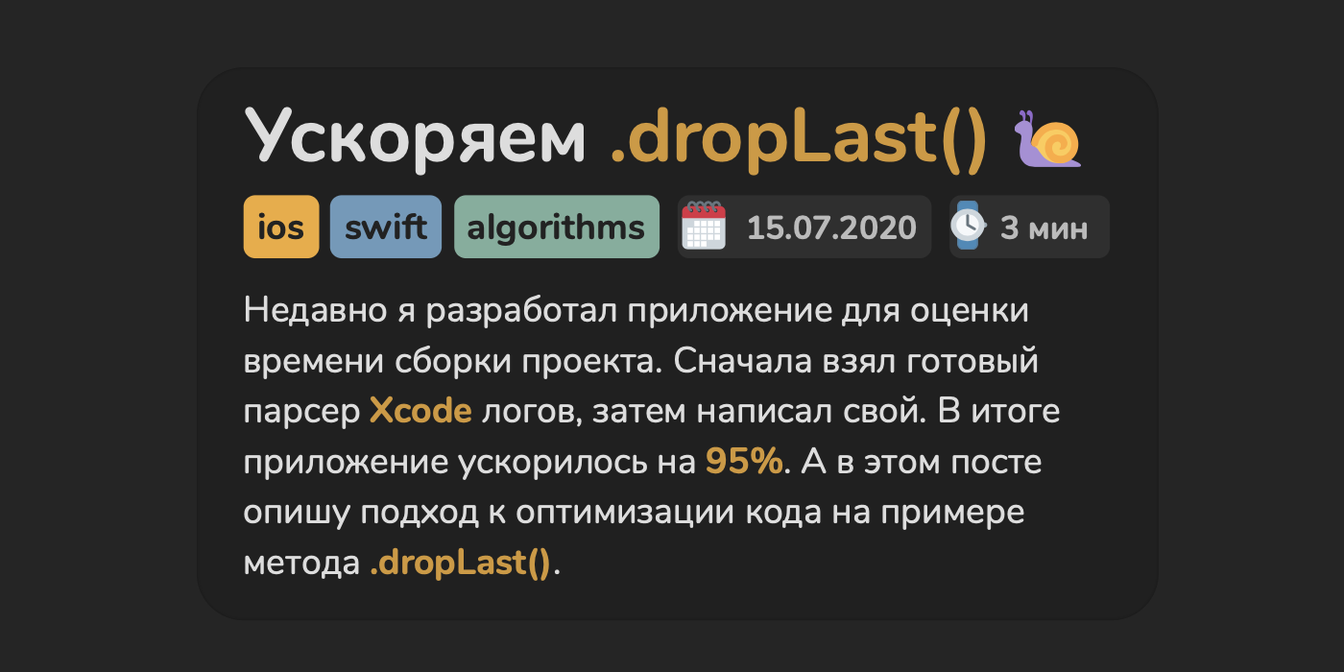
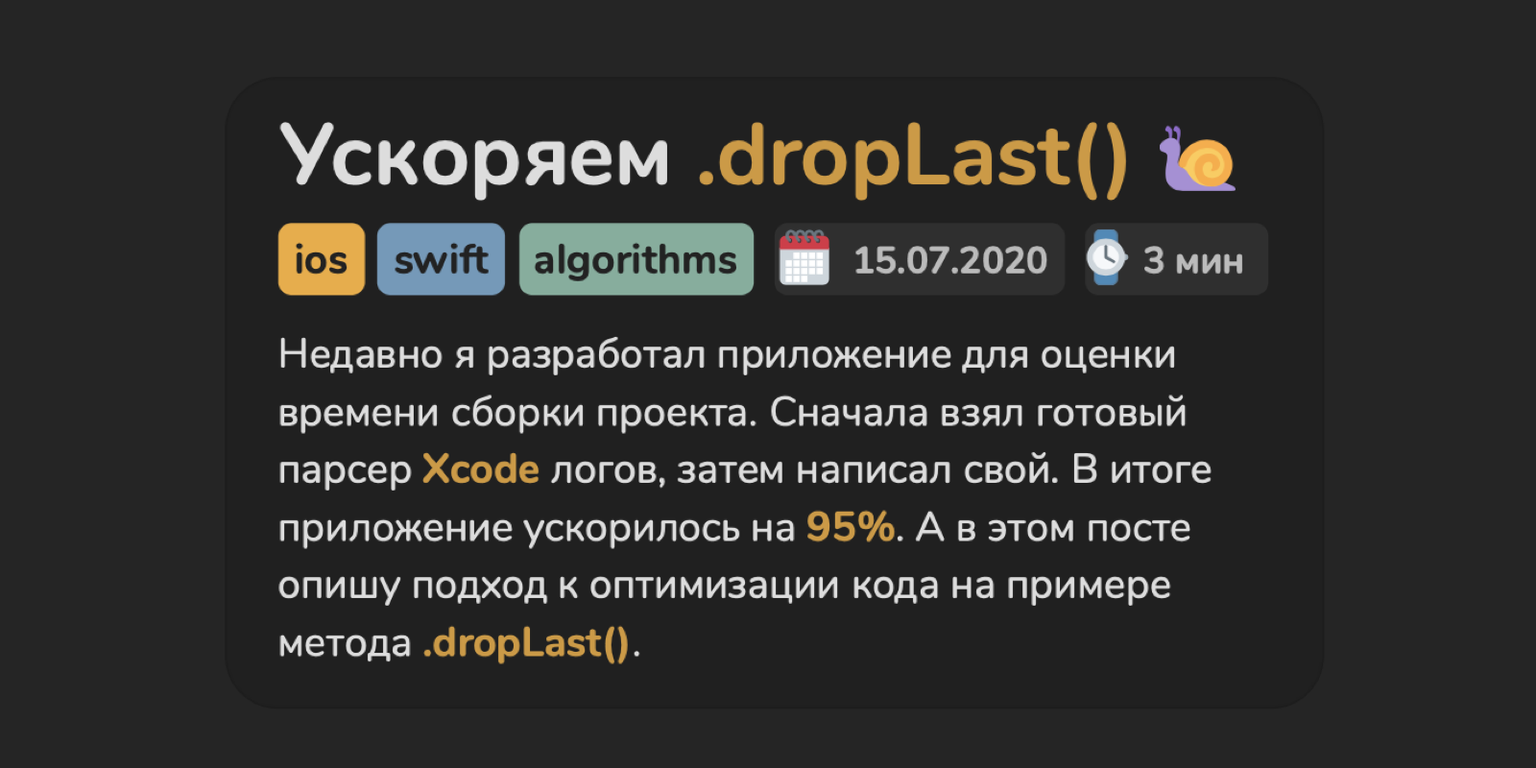
Deploy.

diff --git a/ru/2018-06-24-algorithms_complexity/index.html b/ru/2018-06-24-algorithms_complexity/index.html
@@ -1,8 +1,4 @@
-<!DOCTYPE html><html lang="ru"><head><!--Global site tag (gtag.js) - Google Analytics--><script async src="https://www.googletagmanager.com/gtag/js?id=UA-169314670-1"></script><script>window.dataLayer = window.dataLayer || [];
-function gtag(){dataLayer.push(arguments);}
-gtag('js', new Date());
-
-gtag('config', 'UA-169314670-1');</script><!--/Google Analytics--><meta charset="UTF-8"/><meta name="og:site_name" content="Swifty Finch"/><link rel="canonical" href="https://swiftyfinch.github.io/ru/2018-06-24-algorithms_complexity"/><meta name="twitter:url" content="https://swiftyfinch.github.io/ru/2018-06-24-algorithms_complexity"/><meta name="og:url" content="https://swiftyfinch.github.io/ru/2018-06-24-algorithms_complexity"/><title>Оценка алгоритмов для самых маленьких | Swifty Finch</title><meta name="twitter:title" content="Оценка алгоритмов для самых маленьких | Swifty Finch"/><meta name="og:title" content="Оценка алгоритмов для самых маленьких | Swifty Finch"/><meta name="description" content="Мой испытательный срок на новой работе подходит к концу, быстро время пролетело. У нас в компании принято рассказывать небольшой доклад по такому случаю. А так как я совсем недавно закончил курс Алгоритмы и структуры данных в ШАД, я решил почему бы не сделать доклад именно на эту тему. И конечно, почему бы не написать об этом!"/><meta name="twitter:description" content="Мой испытательный срок на новой работе подходит к концу, быстро время пролетело. У нас в компании принято рассказывать небольшой доклад по такому случаю. А так как я совсем недавно закончил курс Алгоритмы и структуры данных в ШАД, я решил почему бы не сделать доклад именно на эту тему. И конечно, почему бы не написать об этом!"/><meta name="og:description" content="Мой испытательный срок на новой работе подходит к концу, быстро время пролетело. У нас в компании принято рассказывать небольшой доклад по такому случаю. А так как я совсем недавно закончил курс Алгоритмы и структуры данных в ШАД, я решил почему бы не сделать доклад именно на эту тему. И конечно, почему бы не написать об этом!"/><!--Yandex.Metrika counter--><script type="text/javascript">(function(m,e,t,r,i,k,a){m[i]=m[i]||function(){(m[i].a=m[i].a||[]).push(arguments)};
+<!DOCTYPE html><html lang="ru"><head><meta charset="UTF-8"/><meta name="og:site_name" content="Swifty Finch"/><link rel="canonical" href="https://swiftyfinch.github.io/ru/2018-06-24-algorithms_complexity"/><meta name="twitter:url" content="https://swiftyfinch.github.io/ru/2018-06-24-algorithms_complexity"/><meta name="og:url" content="https://swiftyfinch.github.io/ru/2018-06-24-algorithms_complexity"/><title>Оценка алгоритмов для самых маленьких | Swifty Finch</title><meta name="twitter:title" content="Оценка алгоритмов для самых маленьких | Swifty Finch"/><meta name="og:title" content="Оценка алгоритмов для самых маленьких | Swifty Finch"/><meta name="description" content="Мой испытательный срок на новой работе подходит к концу, быстро время пролетело. У нас в компании принято рассказывать небольшой доклад по такому случаю. А так как я совсем недавно закончил курс Алгоритмы и структуры данных в ШАД, я решил почему бы не сделать доклад именно на эту тему. И конечно, почему бы не написать об этом!"/><meta name="twitter:description" content="Мой испытательный срок на новой работе подходит к концу, быстро время пролетело. У нас в компании принято рассказывать небольшой доклад по такому случаю. А так как я совсем недавно закончил курс Алгоритмы и структуры данных в ШАД, я решил почему бы не сделать доклад именно на эту тему. И конечно, почему бы не написать об этом!"/><meta name="og:description" content="Мой испытательный срок на новой работе подходит к концу, быстро время пролетело. У нас в компании принято рассказывать небольшой доклад по такому случаю. А так как я совсем недавно закончил курс Алгоритмы и структуры данных в ШАД, я решил почему бы не сделать доклад именно на эту тему. И конечно, почему бы не написать об этом!"/><!--Yandex.Metrika counter--><script type="text/javascript">(function(m,e,t,r,i,k,a){m[i]=m[i]||function(){(m[i].a=m[i].a||[]).push(arguments)};
 m[i].l=1*new Date();k=e.createElement(t),a=e.getElementsByTagName(t)[0],k.async=1,k.src=r,a.parentNode.insertBefore(k,a)})
 (window, document, "script", "https://mc.yandex.ru/metrika/tag.js", "ym");
 

diff --git a/ru/2020-06-06-cozy-pod-install-3/index.html b/ru/2020-06-06-cozy-pod-install-3/index.html
@@ -1,8 +1,4 @@
-<!DOCTYPE html><html lang="ru"><head><!--Global site tag (gtag.js) - Google Analytics--><script async src="https://www.googletagmanager.com/gtag/js?id=UA-169314670-1"></script><script>window.dataLayer = window.dataLayer || [];
-function gtag(){dataLayer.push(arguments);}
-gtag('js', new Date());
-
-gtag('config', 'UA-169314670-1');</script><!--/Google Analytics--><meta charset="UTF-8"/><meta name="og:site_name" content="Swifty Finch"/><link rel="canonical" href="https://swiftyfinch.github.io/ru/2020-06-06-cozy-pod-install-3"/><meta name="twitter:url" content="https://swiftyfinch.github.io/ru/2020-06-06-cozy-pod-install-3"/><meta name="og:url" content="https://swiftyfinch.github.io/ru/2020-06-06-cozy-pod-install-3"/><title>(ч.3) Удобный pod install 🌿 | Swifty Finch</title><meta name="twitter:title" content="(ч.3) Удобный pod install 🌿 | Swifty Finch"/><meta name="og:title" content="(ч.3) Удобный pod install 🌿 | Swifty Finch"/><meta name="description" content="В прошлой части мы написали небольшую обертку над обычным CocoaPods и научились не вызывать его без необходимости. 🤷🏻 И даже при необходимости. В этой части давайте попробуем автоматизировать пару интересных моментов. Основная цель запустить команду pods install и спокойно переключиться на другие задачи до её завершения.</p>"/><meta name="twitter:description" content="В прошлой части мы написали небольшую обертку над обычным CocoaPods и научились не вызывать его без необходимости. 🤷🏻 И даже при необходимости. В этой части давайте попробуем автоматизировать пару интересных моментов. Основная цель запустить команду pods install и спокойно переключиться на другие задачи до её завершения.</p>"/><meta name="og:description" content="В прошлой части мы написали небольшую обертку над обычным CocoaPods и научились не вызывать его без необходимости. 🤷🏻 И даже при необходимости. В этой части давайте попробуем автоматизировать пару интересных моментов. Основная цель запустить команду pods install и спокойно переключиться на другие задачи до её завершения.</p>"/><!--Yandex.Metrika counter--><script type="text/javascript">(function(m,e,t,r,i,k,a){m[i]=m[i]||function(){(m[i].a=m[i].a||[]).push(arguments)};
+<!DOCTYPE html><html lang="ru"><head><meta charset="UTF-8"/><meta name="og:site_name" content="Swifty Finch"/><link rel="canonical" href="https://swiftyfinch.github.io/ru/2020-06-06-cozy-pod-install-3"/><meta name="twitter:url" content="https://swiftyfinch.github.io/ru/2020-06-06-cozy-pod-install-3"/><meta name="og:url" content="https://swiftyfinch.github.io/ru/2020-06-06-cozy-pod-install-3"/><title>(ч.3) Удобный pod install 🌿 | Swifty Finch</title><meta name="twitter:title" content="(ч.3) Удобный pod install 🌿 | Swifty Finch"/><meta name="og:title" content="(ч.3) Удобный pod install 🌿 | Swifty Finch"/><meta name="description" content="В прошлой части мы написали небольшую обертку над обычным CocoaPods и научились не вызывать его без необходимости. 🤷🏻 И даже при необходимости. В этой части давайте попробуем автоматизировать пару интересных моментов. Основная цель запустить команду pods install и спокойно переключиться на другие задачи до её завершения.</p>"/><meta name="twitter:description" content="В прошлой части мы написали небольшую обертку над обычным CocoaPods и научились не вызывать его без необходимости. 🤷🏻 И даже при необходимости. В этой части давайте попробуем автоматизировать пару интересных моментов. Основная цель запустить команду pods install и спокойно переключиться на другие задачи до её завершения.</p>"/><meta name="og:description" content="В прошлой части мы написали небольшую обертку над обычным CocoaPods и научились не вызывать его без необходимости. 🤷🏻 И даже при необходимости. В этой части давайте попробуем автоматизировать пару интересных моментов. Основная цель запустить команду pods install и спокойно переключиться на другие задачи до её завершения.</p>"/><!--Yandex.Metrika counter--><script type="text/javascript">(function(m,e,t,r,i,k,a){m[i]=m[i]||function(){(m[i].a=m[i].a||[]).push(arguments)};
 m[i].l=1*new Date();k=e.createElement(t),a=e.getElementsByTagName(t)[0],k.async=1,k.src=r,a.parentNode.insertBefore(k,a)})
 (window, document, "script", "https://mc.yandex.ru/metrika/tag.js", "ym");
 

diff --git a/ru/2017-06-19-yandex-ios-school-p1/index.html b/ru/2017-06-19-yandex-ios-school-p1/index.html
@@ -1,8 +1,4 @@
-<!DOCTYPE html><html lang="ru"><head><!--Global site tag (gtag.js) - Google Analytics--><script async src="https://www.googletagmanager.com/gtag/js?id=UA-169314670-1"></script><script>window.dataLayer = window.dataLayer || [];
-function gtag(){dataLayer.push(arguments);}
-gtag('js', new Date());
-
-gtag('config', 'UA-169314670-1');</script><!--/Google Analytics--><meta charset="UTF-8"/><meta name="og:site_name" content="Swifty Finch"/><link rel="canonical" href="https://swiftyfinch.github.io/ru/2017-06-19-yandex-ios-school-p1"/><meta name="twitter:url" content="https://swiftyfinch.github.io/ru/2017-06-19-yandex-ios-school-p1"/><meta name="og:url" content="https://swiftyfinch.github.io/ru/2017-06-19-yandex-ios-school-p1"/><title>(ч.1) Яндекс Школа iOS | Swifty Finch</title><meta name="twitter:title" content="(ч.1) Яндекс Школа iOS | Swifty Finch"/><meta name="og:title" content="(ч.1) Яндекс Школа iOS | Swifty Finch"/><meta name="description" content="Это первая часть моей самой первой статьи. У меня в планах написать несколько статей, в которых я хочу поделиться своими впечатлениями о Школе мобильной разработки iOS. Я постараюсь описать все от начала и до самого конца. Также расскажу о своих выводах и планах."/><meta name="twitter:description" content="Это первая часть моей самой первой статьи. У меня в планах написать несколько статей, в которых я хочу поделиться своими впечатлениями о Школе мобильной разработки iOS. Я постараюсь описать все от начала и до самого конца. Также расскажу о своих выводах и планах."/><meta name="og:description" content="Это первая часть моей самой первой статьи. У меня в планах написать несколько статей, в которых я хочу поделиться своими впечатлениями о Школе мобильной разработки iOS. Я постараюсь описать все от начала и до самого конца. Также расскажу о своих выводах и планах."/><!--Yandex.Metrika counter--><script type="text/javascript">(function(m,e,t,r,i,k,a){m[i]=m[i]||function(){(m[i].a=m[i].a||[]).push(arguments)};
+<!DOCTYPE html><html lang="ru"><head><meta charset="UTF-8"/><meta name="og:site_name" content="Swifty Finch"/><link rel="canonical" href="https://swiftyfinch.github.io/ru/2017-06-19-yandex-ios-school-p1"/><meta name="twitter:url" content="https://swiftyfinch.github.io/ru/2017-06-19-yandex-ios-school-p1"/><meta name="og:url" content="https://swiftyfinch.github.io/ru/2017-06-19-yandex-ios-school-p1"/><title>(ч.1) Яндекс Школа iOS | Swifty Finch</title><meta name="twitter:title" content="(ч.1) Яндекс Школа iOS | Swifty Finch"/><meta name="og:title" content="(ч.1) Яндекс Школа iOS | Swifty Finch"/><meta name="description" content="Это первая часть моей самой первой статьи. У меня в планах написать несколько статей, в которых я хочу поделиться своими впечатлениями о Школе мобильной разработки iOS. Я постараюсь описать все от начала и до самого конца. Также расскажу о своих выводах и планах."/><meta name="twitter:description" content="Это первая часть моей самой первой статьи. У меня в планах написать несколько статей, в которых я хочу поделиться своими впечатлениями о Школе мобильной разработки iOS. Я постараюсь описать все от начала и до самого конца. Также расскажу о своих выводах и планах."/><meta name="og:description" content="Это первая часть моей самой первой статьи. У меня в планах написать несколько статей, в которых я хочу поделиться своими впечатлениями о Школе мобильной разработки iOS. Я постараюсь описать все от начала и до самого конца. Также расскажу о своих выводах и планах."/><!--Yandex.Metrika counter--><script type="text/javascript">(function(m,e,t,r,i,k,a){m[i]=m[i]||function(){(m[i].a=m[i].a||[]).push(arguments)};
 m[i].l=1*new Date();k=e.createElement(t),a=e.getElementsByTagName(t)[0],k.async=1,k.src=r,a.parentNode.insertBefore(k,a)})
 (window, document, "script", "https://mc.yandex.ru/metrika/tag.js", "ym");
 

diff --git a/ru/2020-05-19-json-encoding/index.html b/ru/2020-05-19-json-encoding/index.html
@@ -1,8 +1,4 @@
-<!DOCTYPE html><html lang="ru"><head><!--Global site tag (gtag.js) - Google Analytics--><script async src="https://www.googletagmanager.com/gtag/js?id=UA-169314670-1"></script><script>window.dataLayer = window.dataLayer || [];
-function gtag(){dataLayer.push(arguments);}
-gtag('js', new Date());
-
-gtag('config', 'UA-169314670-1');</script><!--/Google Analytics--><meta charset="UTF-8"/><meta name="og:site_name" content="Swifty Finch"/><link rel="canonical" href="https://swiftyfinch.github.io/ru/2020-05-19-json-encoding"/><meta name="twitter:url" content="https://swiftyfinch.github.io/ru/2020-05-19-json-encoding"/><meta name="og:url" content="https://swiftyfinch.github.io/ru/2020-05-19-json-encoding"/><title>Экранирование json объекта | Swifty Finch</title><meta name="twitter:title" content="Экранирование json объекта | Swifty Finch"/><meta name="og:title" content="Экранирование json объекта | Swifty Finch"/><meta name="description" content="Думаю многие работали с экранированием URL. А можете с ходу ответить экранируется ли json при отправке в body? В своей работе я столкнулся с тем, что по умолчанию json body запроса экранируется при использовании стандартного JSONEncoder. Чем это плохо спросите вы?"/><meta name="twitter:description" content="Думаю многие работали с экранированием URL. А можете с ходу ответить экранируется ли json при отправке в body? В своей работе я столкнулся с тем, что по умолчанию json body запроса экранируется при использовании стандартного JSONEncoder. Чем это плохо спросите вы?"/><meta name="og:description" content="Думаю многие работали с экранированием URL. А можете с ходу ответить экранируется ли json при отправке в body? В своей работе я столкнулся с тем, что по умолчанию json body запроса экранируется при использовании стандартного JSONEncoder. Чем это плохо спросите вы?"/><!--Yandex.Metrika counter--><script type="text/javascript">(function(m,e,t,r,i,k,a){m[i]=m[i]||function(){(m[i].a=m[i].a||[]).push(arguments)};
+<!DOCTYPE html><html lang="ru"><head><meta charset="UTF-8"/><meta name="og:site_name" content="Swifty Finch"/><link rel="canonical" href="https://swiftyfinch.github.io/ru/2020-05-19-json-encoding"/><meta name="twitter:url" content="https://swiftyfinch.github.io/ru/2020-05-19-json-encoding"/><meta name="og:url" content="https://swiftyfinch.github.io/ru/2020-05-19-json-encoding"/><title>Экранирование json объекта | Swifty Finch</title><meta name="twitter:title" content="Экранирование json объекта | Swifty Finch"/><meta name="og:title" content="Экранирование json объекта | Swifty Finch"/><meta name="description" content="Думаю многие работали с экранированием URL. А можете с ходу ответить экранируется ли json при отправке в body? В своей работе я столкнулся с тем, что по умолчанию json body запроса экранируется при использовании стандартного JSONEncoder. Чем это плохо спросите вы?"/><meta name="twitter:description" content="Думаю многие работали с экранированием URL. А можете с ходу ответить экранируется ли json при отправке в body? В своей работе я столкнулся с тем, что по умолчанию json body запроса экранируется при использовании стандартного JSONEncoder. Чем это плохо спросите вы?"/><meta name="og:description" content="Думаю многие работали с экранированием URL. А можете с ходу ответить экранируется ли json при отправке в body? В своей работе я столкнулся с тем, что по умолчанию json body запроса экранируется при использовании стандартного JSONEncoder. Чем это плохо спросите вы?"/><!--Yandex.Metrika counter--><script type="text/javascript">(function(m,e,t,r,i,k,a){m[i]=m[i]||function(){(m[i].a=m[i].a||[]).push(arguments)};
 m[i].l=1*new Date();k=e.createElement(t),a=e.getElementsByTagName(t)[0],k.async=1,k.src=r,a.parentNode.insertBefore(k,a)})
 (window, document, "script", "https://mc.yandex.ru/metrika/tag.js", "ym");
 

diff --git a/ru/2018-02-21-shad/index.html b/ru/2018-02-21-shad/index.html
@@ -1,8 +1,4 @@
-<!DOCTYPE html><html lang="ru"><head><!--Global site tag (gtag.js) - Google Analytics--><script async src="https://www.googletagmanager.com/gtag/js?id=UA-169314670-1"></script><script>window.dataLayer = window.dataLayer || [];
-function gtag(){dataLayer.push(arguments);}
-gtag('js', new Date());
-
-gtag('config', 'UA-169314670-1');</script><!--/Google Analytics--><meta charset="UTF-8"/><meta name="og:site_name" content="Swifty Finch"/><link rel="canonical" href="https://swiftyfinch.github.io/ru/2018-02-21-shad"/><meta name="twitter:url" content="https://swiftyfinch.github.io/ru/2018-02-21-shad"/><meta name="og:url" content="https://swiftyfinch.github.io/ru/2018-02-21-shad"/><title>ШАД, Алгоритмы и структуры данных | Swifty Finch</title><meta name="twitter:title" content="ШАД, Алгоритмы и структуры данных | Swifty Finch"/><meta name="og:title" content="ШАД, Алгоритмы и структуры данных | Swifty Finch"/><meta name="description" content="Статья является логическим продолжением моей последней публикации, в конце которой рассказывается о том как я получил интересную возможность стать вольнослушателем в Школе Анализа Данных в Екатеринбурге и изучать Алгоритмы и Структуры Данных."/><meta name="twitter:description" content="Статья является логическим продолжением моей последней публикации, в конце которой рассказывается о том как я получил интересную возможность стать вольнослушателем в Школе Анализа Данных в Екатеринбурге и изучать Алгоритмы и Структуры Данных."/><meta name="og:description" content="Статья является логическим продолжением моей последней публикации, в конце которой рассказывается о том как я получил интересную возможность стать вольнослушателем в Школе Анализа Данных в Екатеринбурге и изучать Алгоритмы и Структуры Данных."/><!--Yandex.Metrika counter--><script type="text/javascript">(function(m,e,t,r,i,k,a){m[i]=m[i]||function(){(m[i].a=m[i].a||[]).push(arguments)};
+<!DOCTYPE html><html lang="ru"><head><meta charset="UTF-8"/><meta name="og:site_name" content="Swifty Finch"/><link rel="canonical" href="https://swiftyfinch.github.io/ru/2018-02-21-shad"/><meta name="twitter:url" content="https://swiftyfinch.github.io/ru/2018-02-21-shad"/><meta name="og:url" content="https://swiftyfinch.github.io/ru/2018-02-21-shad"/><title>ШАД, Алгоритмы и структуры данных | Swifty Finch</title><meta name="twitter:title" content="ШАД, Алгоритмы и структуры данных | Swifty Finch"/><meta name="og:title" content="ШАД, Алгоритмы и структуры данных | Swifty Finch"/><meta name="description" content="Статья является логическим продолжением моей последней публикации, в конце которой рассказывается о том как я получил интересную возможность стать вольнослушателем в Школе Анализа Данных в Екатеринбурге и изучать Алгоритмы и Структуры Данных."/><meta name="twitter:description" content="Статья является логическим продолжением моей последней публикации, в конце которой рассказывается о том как я получил интересную возможность стать вольнослушателем в Школе Анализа Данных в Екатеринбурге и изучать Алгоритмы и Структуры Данных."/><meta name="og:description" content="Статья является логическим продолжением моей последней публикации, в конце которой рассказывается о том как я получил интересную возможность стать вольнослушателем в Школе Анализа Данных в Екатеринбурге и изучать Алгоритмы и Структуры Данных."/><!--Yandex.Metrika counter--><script type="text/javascript">(function(m,e,t,r,i,k,a){m[i]=m[i]||function(){(m[i].a=m[i].a||[]).push(arguments)};
 m[i].l=1*new Date();k=e.createElement(t),a=e.getElementsByTagName(t)[0],k.async=1,k.src=r,a.parentNode.insertBefore(k,a)})
 (window, document, "script", "https://mc.yandex.ru/metrika/tag.js", "ym");
 

diff --git a/ru/2020-07-18-drop-last/index.html b/ru/2020-07-18-drop-last/index.html
@@ -1,8 +1,4 @@
-<!DOCTYPE html><html lang="ru"><head><!--Global site tag (gtag.js) - Google Analytics--><script async src="https://www.googletagmanager.com/gtag/js?id=UA-169314670-1"></script><script>window.dataLayer = window.dataLayer || [];
-function gtag(){dataLayer.push(arguments);}
-gtag('js', new Date());
-
-gtag('config', 'UA-169314670-1');</script><!--/Google Analytics--><meta charset="UTF-8"/><meta name="og:site_name" content="Swifty Finch"/><link rel="canonical" href="https://swiftyfinch.github.io/ru/2020-07-18-drop-last"/><meta name="twitter:url" content="https://swiftyfinch.github.io/ru/2020-07-18-drop-last"/><meta name="og:url" content="https://swiftyfinch.github.io/ru/2020-07-18-drop-last"/><title>Ускоряем **.dropLast()** 🐌 | Swifty Finch</title><meta name="twitter:title" content="Ускоряем **.dropLast()** 🐌 | Swifty Finch"/><meta name="og:title" content="Ускоряем **.dropLast()** 🐌 | Swifty Finch"/><meta name="description" content="Недавно я разработал приложение для оценки времени сборки проекта. Сначала взял готовый парсер Xcode логов, затем написал свой. В итоге приложение ускорилось на 95%. А в этом посте опишу подход к оптимизации кода на примере метода .dropLast()."/><meta name="twitter:description" content="Недавно я разработал приложение для оценки времени сборки проекта. Сначала взял готовый парсер Xcode логов, затем написал свой. В итоге приложение ускорилось на 95%. А в этом посте опишу подход к оптимизации кода на примере метода .dropLast()."/><meta name="og:description" content="Недавно я разработал приложение для оценки времени сборки проекта. Сначала взял готовый парсер Xcode логов, затем написал свой. В итоге приложение ускорилось на 95%. А в этом посте опишу подход к оптимизации кода на примере метода .dropLast()."/><!--Yandex.Metrika counter--><script type="text/javascript">(function(m,e,t,r,i,k,a){m[i]=m[i]||function(){(m[i].a=m[i].a||[]).push(arguments)};
+<!DOCTYPE html><html lang="ru"><head><meta charset="UTF-8"/><meta name="og:site_name" content="Swifty Finch"/><link rel="canonical" href="https://swiftyfinch.github.io/ru/2020-07-18-drop-last"/><meta name="twitter:url" content="https://swiftyfinch.github.io/ru/2020-07-18-drop-last"/><meta name="og:url" content="https://swiftyfinch.github.io/ru/2020-07-18-drop-last"/><title>Ускоряем .dropLast() 🐌 | Swifty Finch</title><meta name="twitter:title" content="Ускоряем .dropLast() 🐌 | Swifty Finch"/><meta name="og:title" content="Ускоряем .dropLast() 🐌 | Swifty Finch"/><meta name="description" content="Недавно я разработал приложение для оценки времени сборки проекта. Сначала взял готовый парсер Xcode логов, затем написал свой. В итоге приложение ускорилось на 95%. А в этом посте опишу подход к оптимизации кода на примере метода .dropLast()."/><meta name="twitter:description" content="Недавно я разработал приложение для оценки времени сборки проекта. Сначала взял готовый парсер Xcode логов, затем написал свой. В итоге приложение ускорилось на 95%. А в этом посте опишу подход к оптимизации кода на примере метода .dropLast()."/><meta name="og:description" content="Недавно я разработал приложение для оценки времени сборки проекта. Сначала взял готовый парсер Xcode логов, затем написал свой. В итоге приложение ускорилось на 95%. А в этом посте опишу подход к оптимизации кода на примере метода .dropLast()."/><!--Yandex.Metrika counter--><script type="text/javascript">(function(m,e,t,r,i,k,a){m[i]=m[i]||function(){(m[i].a=m[i].a||[]).push(arguments)};
 m[i].l=1*new Date();k=e.createElement(t),a=e.getElementsByTagName(t)[0],k.async=1,k.src=r,a.parentNode.insertBefore(k,a)})
 (window, document, "script", "https://mc.yandex.ru/metrika/tag.js", "ym");
 

diff --git a/ru/2020-05-31-cozy-pod-install-2/index.html b/ru/2020-05-31-cozy-pod-install-2/index.html
@@ -1,8 +1,4 @@
-<!DOCTYPE html><html lang="ru"><head><!--Global site tag (gtag.js) - Google Analytics--><script async src="https://www.googletagmanager.com/gtag/js?id=UA-169314670-1"></script><script>window.dataLayer = window.dataLayer || [];
-function gtag(){dataLayer.push(arguments);}
-gtag('js', new Date());
-
-gtag('config', 'UA-169314670-1');</script><!--/Google Analytics--><meta charset="UTF-8"/><meta name="og:site_name" content="Swifty Finch"/><link rel="canonical" href="https://swiftyfinch.github.io/ru/2020-05-31-cozy-pod-install-2"/><meta name="twitter:url" content="https://swiftyfinch.github.io/ru/2020-05-31-cozy-pod-install-2"/><meta name="og:url" content="https://swiftyfinch.github.io/ru/2020-05-31-cozy-pod-install-2"/><title>(ч.2) Удобный pod install 🌿 | Swifty Finch</title><meta name="twitter:title" content="(ч.2) Удобный pod install 🌿 | Swifty Finch"/><meta name="og:title" content="(ч.2) Удобный pod install 🌿 | Swifty Finch"/><meta name="description" content="В прошлой части мы сократили команду bundle exec pod install до pods install. Всего на одну букву больше чем обычный pod install. А в этот раз давайте посмотрим какие ещё неприятные моменты бывают с использованием этой команды."/><meta name="twitter:description" content="В прошлой части мы сократили команду bundle exec pod install до pods install. Всего на одну букву больше чем обычный pod install. А в этот раз давайте посмотрим какие ещё неприятные моменты бывают с использованием этой команды."/><meta name="og:description" content="В прошлой части мы сократили команду bundle exec pod install до pods install. Всего на одну букву больше чем обычный pod install. А в этот раз давайте посмотрим какие ещё неприятные моменты бывают с использованием этой команды."/><!--Yandex.Metrika counter--><script type="text/javascript">(function(m,e,t,r,i,k,a){m[i]=m[i]||function(){(m[i].a=m[i].a||[]).push(arguments)};
+<!DOCTYPE html><html lang="ru"><head><meta charset="UTF-8"/><meta name="og:site_name" content="Swifty Finch"/><link rel="canonical" href="https://swiftyfinch.github.io/ru/2020-05-31-cozy-pod-install-2"/><meta name="twitter:url" content="https://swiftyfinch.github.io/ru/2020-05-31-cozy-pod-install-2"/><meta name="og:url" content="https://swiftyfinch.github.io/ru/2020-05-31-cozy-pod-install-2"/><title>(ч.2) Удобный pod install 🌿 | Swifty Finch</title><meta name="twitter:title" content="(ч.2) Удобный pod install 🌿 | Swifty Finch"/><meta name="og:title" content="(ч.2) Удобный pod install 🌿 | Swifty Finch"/><meta name="description" content="В прошлой части мы сократили команду bundle exec pod install до pods install. Всего на одну букву больше чем обычный pod install. А в этот раз давайте посмотрим какие ещё неприятные моменты бывают с использованием этой команды."/><meta name="twitter:description" content="В прошлой части мы сократили команду bundle exec pod install до pods install. Всего на одну букву больше чем обычный pod install. А в этот раз давайте посмотрим какие ещё неприятные моменты бывают с использованием этой команды."/><meta name="og:description" content="В прошлой части мы сократили команду bundle exec pod install до pods install. Всего на одну букву больше чем обычный pod install. А в этот раз давайте посмотрим какие ещё неприятные моменты бывают с использованием этой команды."/><!--Yandex.Metrika counter--><script type="text/javascript">(function(m,e,t,r,i,k,a){m[i]=m[i]||function(){(m[i].a=m[i].a||[]).push(arguments)};
 m[i].l=1*new Date();k=e.createElement(t),a=e.getElementsByTagName(t)[0],k.async=1,k.src=r,a.parentNode.insertBefore(k,a)})
 (window, document, "script", "https://mc.yandex.ru/metrika/tag.js", "ym");
 

diff --git a/ru/2018-03-04-interview/index.html b/ru/2018-03-04-interview/index.html
@@ -1,8 +1,4 @@
-<!DOCTYPE html><html lang="ru"><head><!--Global site tag (gtag.js) - Google Analytics--><script async src="https://www.googletagmanager.com/gtag/js?id=UA-169314670-1"></script><script>window.dataLayer = window.dataLayer || [];
-function gtag(){dataLayer.push(arguments);}
-gtag('js', new Date());
-
-gtag('config', 'UA-169314670-1');</script><!--/Google Analytics--><meta charset="UTF-8"/><meta name="og:site_name" content="Swifty Finch"/><link rel="canonical" href="https://swiftyfinch.github.io/ru/2018-03-04-interview"/><meta name="twitter:url" content="https://swiftyfinch.github.io/ru/2018-03-04-interview"/><meta name="og:url" content="https://swiftyfinch.github.io/ru/2018-03-04-interview"/><title>Собеседование, работа над ошибками | Swifty Finch</title><meta name="twitter:title" content="Собеседование, работа над ошибками | Swifty Finch"/><meta name="og:title" content="Собеседование, работа над ошибками | Swifty Finch"/><meta name="description" content="Совсем недавно я проходил собеседование в одну IT компанию на должность iOS разработчика и столкнулся с интересными проблемами. В этой статье я хотел бы поделиться своей работой над ошибками."/><meta name="twitter:description" content="Совсем недавно я проходил собеседование в одну IT компанию на должность iOS разработчика и столкнулся с интересными проблемами. В этой статье я хотел бы поделиться своей работой над ошибками."/><meta name="og:description" content="Совсем недавно я проходил собеседование в одну IT компанию на должность iOS разработчика и столкнулся с интересными проблемами. В этой статье я хотел бы поделиться своей работой над ошибками."/><!--Yandex.Metrika counter--><script type="text/javascript">(function(m,e,t,r,i,k,a){m[i]=m[i]||function(){(m[i].a=m[i].a||[]).push(arguments)};
+<!DOCTYPE html><html lang="ru"><head><meta charset="UTF-8"/><meta name="og:site_name" content="Swifty Finch"/><link rel="canonical" href="https://swiftyfinch.github.io/ru/2018-03-04-interview"/><meta name="twitter:url" content="https://swiftyfinch.github.io/ru/2018-03-04-interview"/><meta name="og:url" content="https://swiftyfinch.github.io/ru/2018-03-04-interview"/><title>Собеседование, работа над ошибками | Swifty Finch</title><meta name="twitter:title" content="Собеседование, работа над ошибками | Swifty Finch"/><meta name="og:title" content="Собеседование, работа над ошибками | Swifty Finch"/><meta name="description" content="Совсем недавно я проходил собеседование в одну IT компанию на должность iOS разработчика и столкнулся с интересными проблемами. В этой статье я хотел бы поделиться своей работой над ошибками."/><meta name="twitter:description" content="Совсем недавно я проходил собеседование в одну IT компанию на должность iOS разработчика и столкнулся с интересными проблемами. В этой статье я хотел бы поделиться своей работой над ошибками."/><meta name="og:description" content="Совсем недавно я проходил собеседование в одну IT компанию на должность iOS разработчика и столкнулся с интересными проблемами. В этой статье я хотел бы поделиться своей работой над ошибками."/><!--Yandex.Metrika counter--><script type="text/javascript">(function(m,e,t,r,i,k,a){m[i]=m[i]||function(){(m[i].a=m[i].a||[]).push(arguments)};
 m[i].l=1*new Date();k=e.createElement(t),a=e.getElementsByTagName(t)[0],k.async=1,k.src=r,a.parentNode.insertBefore(k,a)})
 (window, document, "script", "https://mc.yandex.ru/metrika/tag.js", "ym");
 

diff --git a/ru/2020-06-20-pod-tree/index.html b/ru/2020-06-20-pod-tree/index.html
@@ -1,8 +1,4 @@
-<!DOCTYPE html><html lang="ru"><head><!--Global site tag (gtag.js) - Google Analytics--><script async src="https://www.googletagmanager.com/gtag/js?id=UA-169314670-1"></script><script>window.dataLayer = window.dataLayer || [];
-function gtag(){dataLayer.push(arguments);}
-gtag('js', new Date());
-
-gtag('config', 'UA-169314670-1');</script><!--/Google Analytics--><meta charset="UTF-8"/><meta name="og:site_name" content="Swifty Finch"/><link rel="canonical" href="https://swiftyfinch.github.io/ru/2020-06-20-pod-tree"/><meta name="twitter:url" content="https://swiftyfinch.github.io/ru/2020-06-20-pod-tree"/><meta name="og:url" content="https://swiftyfinch.github.io/ru/2020-06-20-pod-tree"/><title>Дерево зависимостей CocoaPods 🌲 | Swifty Finch</title><meta name="twitter:title" content="Дерево зависимостей CocoaPods 🌲 | Swifty Finch"/><meta name="og:title" content="Дерево зависимостей CocoaPods 🌲 | Swifty Finch"/><meta name="description" content="В прошлой части я упомянул об одной идее 💡. Недавно мне потребовалось определить порядок поднятия зависимостей CocoaPods в рабочем проекте. В этом посте я расскажу как сделать это с помощью Ruby.</p>"/><meta name="twitter:description" content="В прошлой части я упомянул об одной идее 💡. Недавно мне потребовалось определить порядок поднятия зависимостей CocoaPods в рабочем проекте. В этом посте я расскажу как сделать это с помощью Ruby.</p>"/><meta name="og:description" content="В прошлой части я упомянул об одной идее 💡. Недавно мне потребовалось определить порядок поднятия зависимостей CocoaPods в рабочем проекте. В этом посте я расскажу как сделать это с помощью Ruby.</p>"/><!--Yandex.Metrika counter--><script type="text/javascript">(function(m,e,t,r,i,k,a){m[i]=m[i]||function(){(m[i].a=m[i].a||[]).push(arguments)};
+<!DOCTYPE html><html lang="ru"><head><meta charset="UTF-8"/><meta name="og:site_name" content="Swifty Finch"/><link rel="canonical" href="https://swiftyfinch.github.io/ru/2020-06-20-pod-tree"/><meta name="twitter:url" content="https://swiftyfinch.github.io/ru/2020-06-20-pod-tree"/><meta name="og:url" content="https://swiftyfinch.github.io/ru/2020-06-20-pod-tree"/><title>Дерево зависимостей CocoaPods 🌲 | Swifty Finch</title><meta name="twitter:title" content="Дерево зависимостей CocoaPods 🌲 | Swifty Finch"/><meta name="og:title" content="Дерево зависимостей CocoaPods 🌲 | Swifty Finch"/><meta name="description" content="В прошлой части я упомянул об одной идее 💡. Недавно мне потребовалось определить порядок поднятия зависимостей CocoaPods в рабочем проекте. В этом посте я расскажу как сделать это с помощью Ruby.</p>"/><meta name="twitter:description" content="В прошлой части я упомянул об одной идее 💡. Недавно мне потребовалось определить порядок поднятия зависимостей CocoaPods в рабочем проекте. В этом посте я расскажу как сделать это с помощью Ruby.</p>"/><meta name="og:description" content="В прошлой части я упомянул об одной идее 💡. Недавно мне потребовалось определить порядок поднятия зависимостей CocoaPods в рабочем проекте. В этом посте я расскажу как сделать это с помощью Ruby.</p>"/><!--Yandex.Metrika counter--><script type="text/javascript">(function(m,e,t,r,i,k,a){m[i]=m[i]||function(){(m[i].a=m[i].a||[]).push(arguments)};
 m[i].l=1*new Date();k=e.createElement(t),a=e.getElementsByTagName(t)[0],k.async=1,k.src=r,a.parentNode.insertBefore(k,a)})
 (window, document, "script", "https://mc.yandex.ru/metrika/tag.js", "ym");
 

diff --git a/ru/2020-05-23-cozy-pod-install/index.html b/ru/2020-05-23-cozy-pod-install/index.html
@@ -1,8 +1,4 @@
-<!DOCTYPE html><html lang="ru"><head><!--Global site tag (gtag.js) - Google Analytics--><script async src="https://www.googletagmanager.com/gtag/js?id=UA-169314670-1"></script><script>window.dataLayer = window.dataLayer || [];
-function gtag(){dataLayer.push(arguments);}
-gtag('js', new Date());
-
-gtag('config', 'UA-169314670-1');</script><!--/Google Analytics--><meta charset="UTF-8"/><meta name="og:site_name" content="Swifty Finch"/><link rel="canonical" href="https://swiftyfinch.github.io/ru/2020-05-23-cozy-pod-install"/><meta name="twitter:url" content="https://swiftyfinch.github.io/ru/2020-05-23-cozy-pod-install"/><meta name="og:url" content="https://swiftyfinch.github.io/ru/2020-05-23-cozy-pod-install"/><title>(ч.1) Удобный pod install 🌿 | Swifty Finch</title><meta name="twitter:title" content="(ч.1) Удобный pod install 🌿 | Swifty Finch"/><meta name="og:title" content="(ч.1) Удобный pod install 🌿 | Swifty Finch"/><meta name="description" content="В этой статье я расскажу как можно ✨ улучшить работу с CocoaPods в вашем терминале. Мне очень часто приходится использовать CocoaPods в своей работе, а ещё чаще я открываю терминал и пишу там pod install."/><meta name="twitter:description" content="В этой статье я расскажу как можно ✨ улучшить работу с CocoaPods в вашем терминале. Мне очень часто приходится использовать CocoaPods в своей работе, а ещё чаще я открываю терминал и пишу там pod install."/><meta name="og:description" content="В этой статье я расскажу как можно ✨ улучшить работу с CocoaPods в вашем терминале. Мне очень часто приходится использовать CocoaPods в своей работе, а ещё чаще я открываю терминал и пишу там pod install."/><!--Yandex.Metrika counter--><script type="text/javascript">(function(m,e,t,r,i,k,a){m[i]=m[i]||function(){(m[i].a=m[i].a||[]).push(arguments)};
+<!DOCTYPE html><html lang="ru"><head><meta charset="UTF-8"/><meta name="og:site_name" content="Swifty Finch"/><link rel="canonical" href="https://swiftyfinch.github.io/ru/2020-05-23-cozy-pod-install"/><meta name="twitter:url" content="https://swiftyfinch.github.io/ru/2020-05-23-cozy-pod-install"/><meta name="og:url" content="https://swiftyfinch.github.io/ru/2020-05-23-cozy-pod-install"/><title>(ч.1) Удобный pod install 🌿 | Swifty Finch</title><meta name="twitter:title" content="(ч.1) Удобный pod install 🌿 | Swifty Finch"/><meta name="og:title" content="(ч.1) Удобный pod install 🌿 | Swifty Finch"/><meta name="description" content="В этой статье я расскажу как можно ✨ улучшить работу с CocoaPods в вашем терминале. Мне очень часто приходится использовать CocoaPods в своей работе, а ещё чаще я открываю терминал и пишу там pod install."/><meta name="twitter:description" content="В этой статье я расскажу как можно ✨ улучшить работу с CocoaPods в вашем терминале. Мне очень часто приходится использовать CocoaPods в своей работе, а ещё чаще я открываю терминал и пишу там pod install."/><meta name="og:description" content="В этой статье я расскажу как можно ✨ улучшить работу с CocoaPods в вашем терминале. Мне очень часто приходится использовать CocoaPods в своей работе, а ещё чаще я открываю терминал и пишу там pod install."/><!--Yandex.Metrika counter--><script type="text/javascript">(function(m,e,t,r,i,k,a){m[i]=m[i]||function(){(m[i].a=m[i].a||[]).push(arguments)};
 m[i].l=1*new Date();k=e.createElement(t),a=e.getElementsByTagName(t)[0],k.async=1,k.src=r,a.parentNode.insertBefore(k,a)})
 (window, document, "script", "https://mc.yandex.ru/metrika/tag.js", "ym");
 

diff --git a/ru/2017-07-27-yandex-ios-school-p2/index.html b/ru/2017-07-27-yandex-ios-school-p2/index.html
@@ -1,8 +1,4 @@
-<!DOCTYPE html><html lang="ru"><head><!--Global site tag (gtag.js) - Google Analytics--><script async src="https://www.googletagmanager.com/gtag/js?id=UA-169314670-1"></script><script>window.dataLayer = window.dataLayer || [];
-function gtag(){dataLayer.push(arguments);}
-gtag('js', new Date());
-
-gtag('config', 'UA-169314670-1');</script><!--/Google Analytics--><meta charset="UTF-8"/><meta name="og:site_name" content="Swifty Finch"/><link rel="canonical" href="https://swiftyfinch.github.io/ru/2017-07-27-yandex-ios-school-p2"/><meta name="twitter:url" content="https://swiftyfinch.github.io/ru/2017-07-27-yandex-ios-school-p2"/><meta name="og:url" content="https://swiftyfinch.github.io/ru/2017-07-27-yandex-ios-school-p2"/><title>(ч.2) Яндекс Школа iOS | Swifty Finch</title><meta name="twitter:title" content="(ч.2) Яндекс Школа iOS | Swifty Finch"/><meta name="og:title" content="(ч.2) Яндекс Школа iOS | Swifty Finch"/><meta name="description" content="Вторая статья, является продолжением первой части. Неожиданно, первую часть прочитало довольно много человек. Вижу, что определенный интерес есть и я решил продолжить."/><meta name="twitter:description" content="Вторая статья, является продолжением первой части. Неожиданно, первую часть прочитало довольно много человек. Вижу, что определенный интерес есть и я решил продолжить."/><meta name="og:description" content="Вторая статья, является продолжением первой части. Неожиданно, первую часть прочитало довольно много человек. Вижу, что определенный интерес есть и я решил продолжить."/><!--Yandex.Metrika counter--><script type="text/javascript">(function(m,e,t,r,i,k,a){m[i]=m[i]||function(){(m[i].a=m[i].a||[]).push(arguments)};
+<!DOCTYPE html><html lang="ru"><head><meta charset="UTF-8"/><meta name="og:site_name" content="Swifty Finch"/><link rel="canonical" href="https://swiftyfinch.github.io/ru/2017-07-27-yandex-ios-school-p2"/><meta name="twitter:url" content="https://swiftyfinch.github.io/ru/2017-07-27-yandex-ios-school-p2"/><meta name="og:url" content="https://swiftyfinch.github.io/ru/2017-07-27-yandex-ios-school-p2"/><title>(ч.2) Яндекс Школа iOS | Swifty Finch</title><meta name="twitter:title" content="(ч.2) Яндекс Школа iOS | Swifty Finch"/><meta name="og:title" content="(ч.2) Яндекс Школа iOS | Swifty Finch"/><meta name="description" content="Вторая статья, является продолжением первой части. Неожиданно, первую часть прочитало довольно много человек. Вижу, что определенный интерес есть и я решил продолжить."/><meta name="twitter:description" content="Вторая статья, является продолжением первой части. Неожиданно, первую часть прочитало довольно много человек. Вижу, что определенный интерес есть и я решил продолжить."/><meta name="og:description" content="Вторая статья, является продолжением первой части. Неожиданно, первую часть прочитало довольно много человек. Вижу, что определенный интерес есть и я решил продолжить."/><!--Yandex.Metrika counter--><script type="text/javascript">(function(m,e,t,r,i,k,a){m[i]=m[i]||function(){(m[i].a=m[i].a||[]).push(arguments)};
 m[i].l=1*new Date();k=e.createElement(t),a=e.getElementsByTagName(t)[0],k.async=1,k.src=r,a.parentNode.insertBefore(k,a)})
 (window, document, "script", "https://mc.yandex.ru/metrika/tag.js", "ym");
 

diff --git a/ru/2017-10-05-yandex-ios-school-p3/index.html b/ru/2017-10-05-yandex-ios-school-p3/index.html
@@ -1,8 +1,4 @@
-<!DOCTYPE html><html lang="ru"><head><!--Global site tag (gtag.js) - Google Analytics--><script async src="https://www.googletagmanager.com/gtag/js?id=UA-169314670-1"></script><script>window.dataLayer = window.dataLayer || [];
-function gtag(){dataLayer.push(arguments);}
-gtag('js', new Date());
-
-gtag('config', 'UA-169314670-1');</script><!--/Google Analytics--><meta charset="UTF-8"/><meta name="og:site_name" content="Swifty Finch"/><link rel="canonical" href="https://swiftyfinch.github.io/ru/2017-10-05-yandex-ios-school-p3"/><meta name="twitter:url" content="https://swiftyfinch.github.io/ru/2017-10-05-yandex-ios-school-p3"/><meta name="og:url" content="https://swiftyfinch.github.io/ru/2017-10-05-yandex-ios-school-p3"/><title>(ч.3) Яндекс Школа iOS | Swifty Finch</title><meta name="twitter:title" content="(ч.3) Яндекс Школа iOS | Swifty Finch"/><meta name="og:title" content="(ч.3) Яндекс Школа iOS | Swifty Finch"/><meta name="description" content="В этой части я наконец-то расскажу о самом обучении) В конце статьи поделюсь своими выводами и ссылками на лекции. Также немного реальных историй, куда же без них."/><meta name="twitter:description" content="В этой части я наконец-то расскажу о самом обучении) В конце статьи поделюсь своими выводами и ссылками на лекции. Также немного реальных историй, куда же без них."/><meta name="og:description" content="В этой части я наконец-то расскажу о самом обучении) В конце статьи поделюсь своими выводами и ссылками на лекции. Также немного реальных историй, куда же без них."/><!--Yandex.Metrika counter--><script type="text/javascript">(function(m,e,t,r,i,k,a){m[i]=m[i]||function(){(m[i].a=m[i].a||[]).push(arguments)};
+<!DOCTYPE html><html lang="ru"><head><meta charset="UTF-8"/><meta name="og:site_name" content="Swifty Finch"/><link rel="canonical" href="https://swiftyfinch.github.io/ru/2017-10-05-yandex-ios-school-p3"/><meta name="twitter:url" content="https://swiftyfinch.github.io/ru/2017-10-05-yandex-ios-school-p3"/><meta name="og:url" content="https://swiftyfinch.github.io/ru/2017-10-05-yandex-ios-school-p3"/><title>(ч.3) Яндекс Школа iOS | Swifty Finch</title><meta name="twitter:title" content="(ч.3) Яндекс Школа iOS | Swifty Finch"/><meta name="og:title" content="(ч.3) Яндекс Школа iOS | Swifty Finch"/><meta name="description" content="В этой части я наконец-то расскажу о самом обучении) В конце статьи поделюсь своими выводами и ссылками на лекции. Также немного реальных историй, куда же без них."/><meta name="twitter:description" content="В этой части я наконец-то расскажу о самом обучении) В конце статьи поделюсь своими выводами и ссылками на лекции. Также немного реальных историй, куда же без них."/><meta name="og:description" content="В этой части я наконец-то расскажу о самом обучении) В конце статьи поделюсь своими выводами и ссылками на лекции. Также немного реальных историй, куда же без них."/><!--Yandex.Metrika counter--><script type="text/javascript">(function(m,e,t,r,i,k,a){m[i]=m[i]||function(){(m[i].a=m[i].a||[]).push(arguments)};
 m[i].l=1*new Date();k=e.createElement(t),a=e.getElementsByTagName(t)[0],k.async=1,k.src=r,a.parentNode.insertBefore(k,a)})
 (window, document, "script", "https://mc.yandex.ru/metrika/tag.js", "ym");
 
